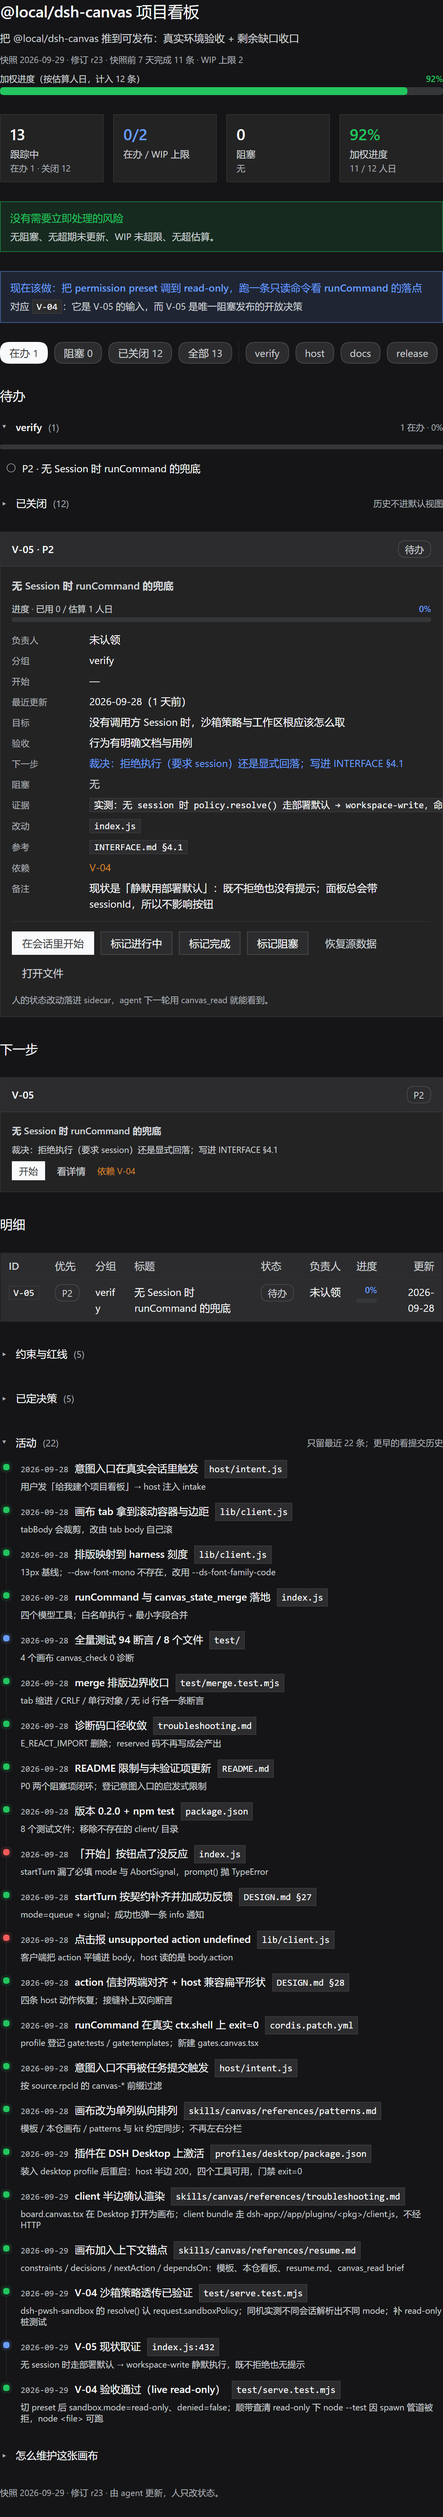
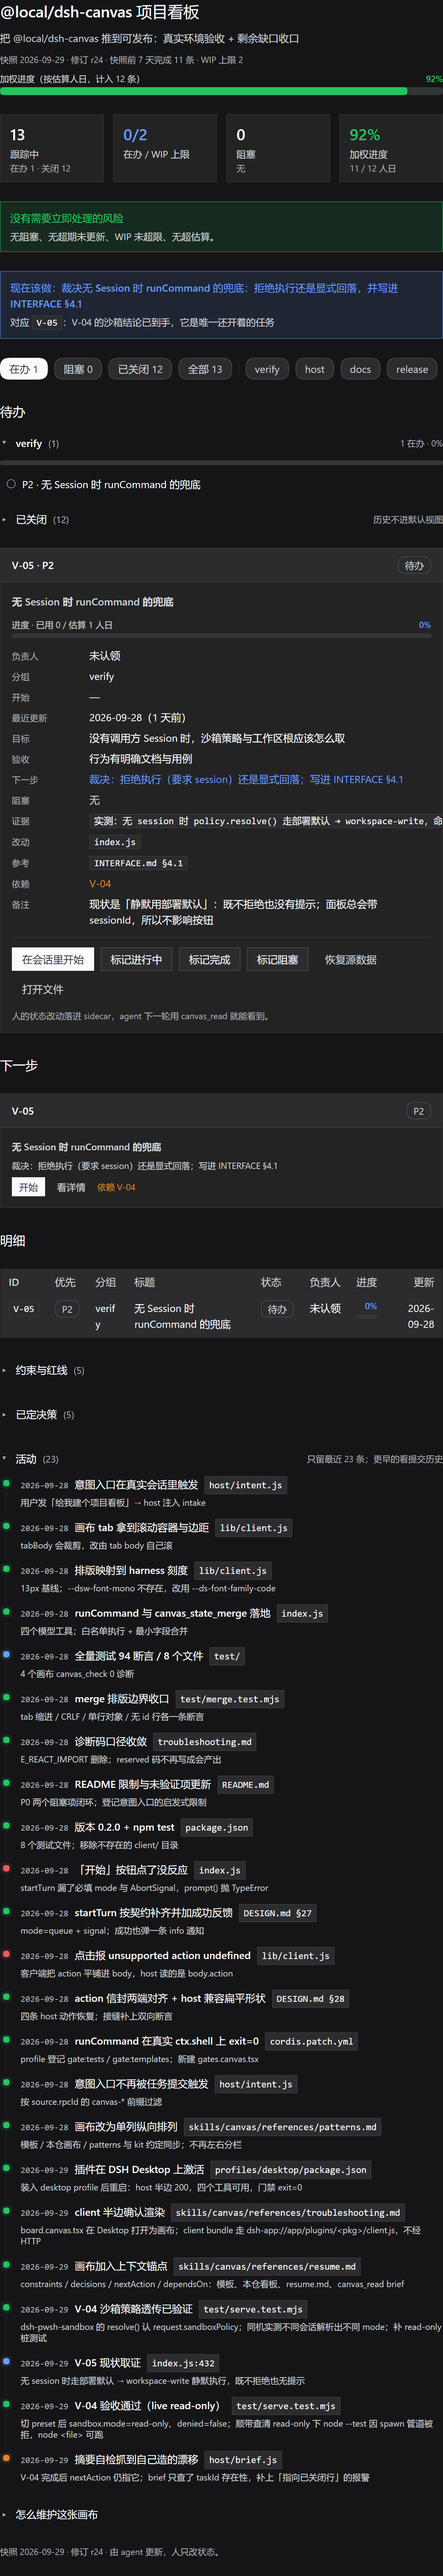
fix(brief): nextAction 指向已关闭的任务要报警（用出来的第一个缺口）
V-04 标完成之后，nextAction 还指着它 —— 摘要里唯一的"该做什么"字段在事情做完后仍读作"去做
这件事"。原来的自检只查 taskId 是否存在，所以没吱声。

- host/brief.js：按 id 取到目标行后，若其 status 不属于在办集合，写一条 note
  （"nextAction.taskId X is already completed; point it at the next open row"）
- test/brief.test.mjs：补两条断言 —— 指向 completed 要报警，指向 pending 保持安静（13 条通过）
- 看板：nextAction 改指 V-05（唯一还开着的任务），r24，a23 记录这次自检抓到的漂移

diff --git a/board.canvas.tsx b/board.canvas.tsx
@@ -29,7 +29,7 @@ type Task = {
 export const DATA = {
   goal: "把 @local/dsh-canvas 推到可发布：真实环境验收 + 剩余缺口收口",
   asOf: "2026-09-29",
-  revision: "r23",
+  revision: "r24",
   wipLimit: 2,
   staleDays: 7,
   lanes: ["verify", "host", "docs", "release"],
@@ -50,7 +50,7 @@ export const DATA = {
     { id: "D5", at: "2026-09-28", chose: "startTurn 用 mode=queue + AbortSignal", rejected: ["mode=steer", "省略 signal"], why: "契约必填 signal；队列语义不抢占当前轮", ref: "DESIGN.md §27" },
   ],
   // 全局唯一的下一个动作。每任务的 next 是局部视角，两者不互相替代。
-  nextAction: { taskId: "V-04", action: "把 permission preset 调到 read-only，跑一条只读命令看 runCommand 的落点", why: "它是 V-05 的输入，而 V-05 是唯一阻塞发布的开放决策" },
+  nextAction: { taskId: "V-05", action: "裁决无 Session 时 runCommand 的兜底：拒绝执行还是显式回落，并写进 INTERFACE §4.1", why: "V-04 的沙箱结论已到手，它是唯一还开着的任务" },
   tasks: [
     {
       id: "V-01", lane: "verify", title: "重启后目视三张画布",
@@ -220,6 +220,7 @@ export const DATA = {
     { id: "a20", at: "2026-09-29", title: "V-04 沙箱策略透传已验证", tone: "success", detail: "dsh-pwsh-sandbox 的 resolve() 认 request.sandboxPolicy；同机实测不同会话解析出不同 mode；补 read-only 桩测试", ref: "test/serve.test.mjs" },
     { id: "a21", at: "2026-09-29", title: "V-05 现状取证", tone: "info", detail: "无 session 时走部署默认 → workspace-write 静默执行，既不拒绝也无提示", ref: "index.js:432" },
     { id: "a22", at: "2026-09-29", title: "V-04 验收通过（live read-only）", tone: "success", detail: "切 preset 后 sandbox.mode=read-only、denied=false；顺带查清 read-only 下 node --test 因 spawn 管道被拒，node <file> 可跑", ref: "test/serve.test.mjs" },
+    { id: "a23", at: "2026-09-29", title: "摘要自检抓到自己造的漂移", tone: "warning", detail: "V-04 完成后 nextAction 仍指它；brief 只查了 taskId 存在性，补上「指向已关闭行」的报警", ref: "host/brief.js" },
   ],
 } as const;
 

diff --git a/host/brief.js b/host/brief.js
@@ -66,6 +66,7 @@ export function briefDigest(data, options = {}) {
   const activityLimit = Number.isInteger(options.activityLimit) ? options.activityLimit : 3;
   const tasks = Array.isArray(data.tasks) ? data.tasks.filter((t) => t !== null && typeof t === "object") : [];
   const ids = new Set(tasks.map((t) => t.id));
+  const byId = new Map(tasks.map((t) => [t.id, t]));
   const notes = [];
 
   const focus = tasks.filter((t) => OPEN_STATUSES.has(t.status)).slice(0, focusLimit).map((t) => pick(t, FOCUS_FIELDS));
@@ -77,8 +78,15 @@ export function briefDigest(data, options = {}) {
     notes.push("no nextAction in DATA: after a truncation the agent cannot tell which single step comes first");
   } else {
     if (typeof data.nextAction.action !== "string" || data.nextAction.action === "") notes.push("nextAction.action is empty");
-    if (typeof data.nextAction.taskId === "string" && !ids.has(data.nextAction.taskId)) {
-      notes.push("nextAction.taskId " + data.nextAction.taskId + " does not exist in tasks[]");
+    if (typeof data.nextAction.taskId === "string") {
+      const target = byId.get(data.nextAction.taskId);
+      if (target === undefined) {
+        notes.push("nextAction.taskId " + data.nextAction.taskId + " does not exist in tasks[]");
+      } else if (!OPEN_STATUSES.has(target.status)) {
+        // Pointing the single next step at a closed row is exactly the drift the
+        // digest exists to catch: it reads as "do this" after it is done.
+        notes.push("nextAction.taskId " + data.nextAction.taskId + " is already " + String(target.status) + "; point it at the next open row");
+      }
     }
   }
   for (const task of tasks) {
